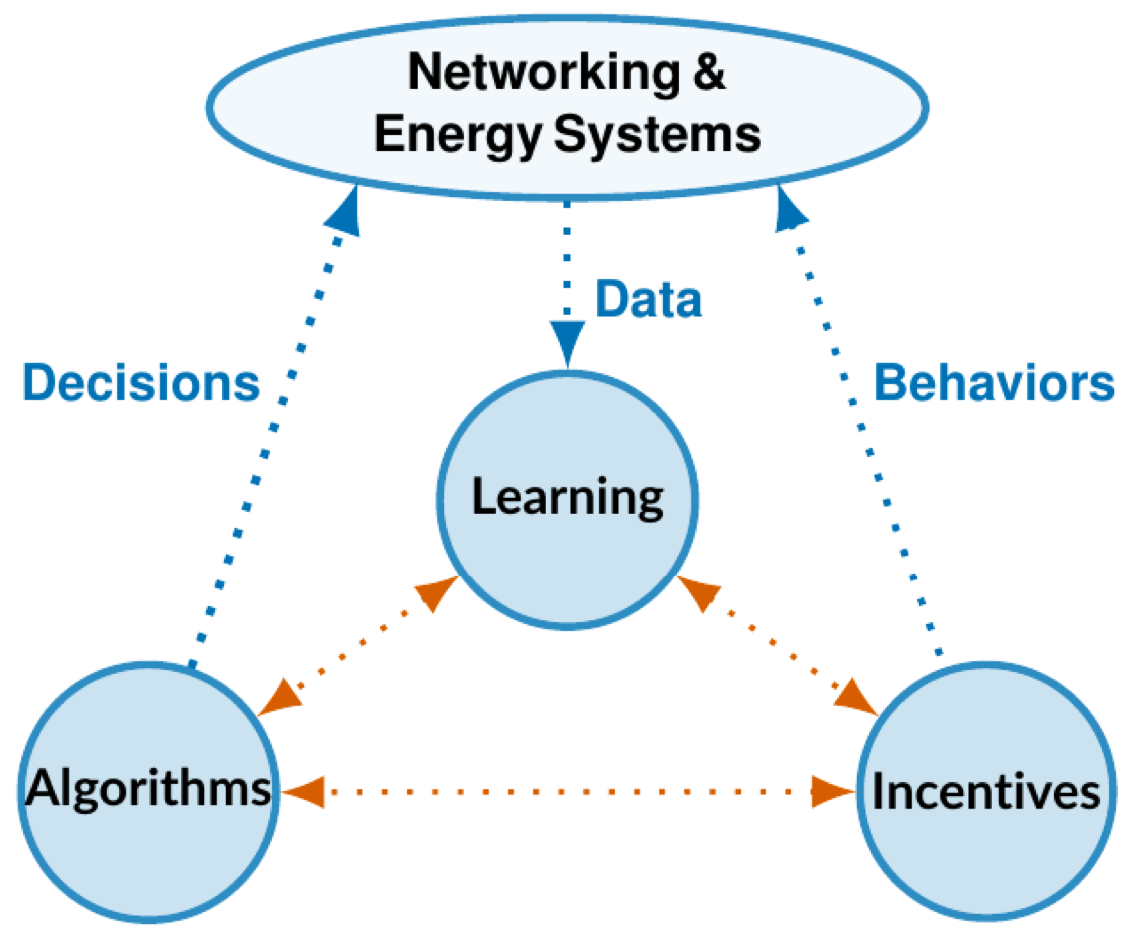
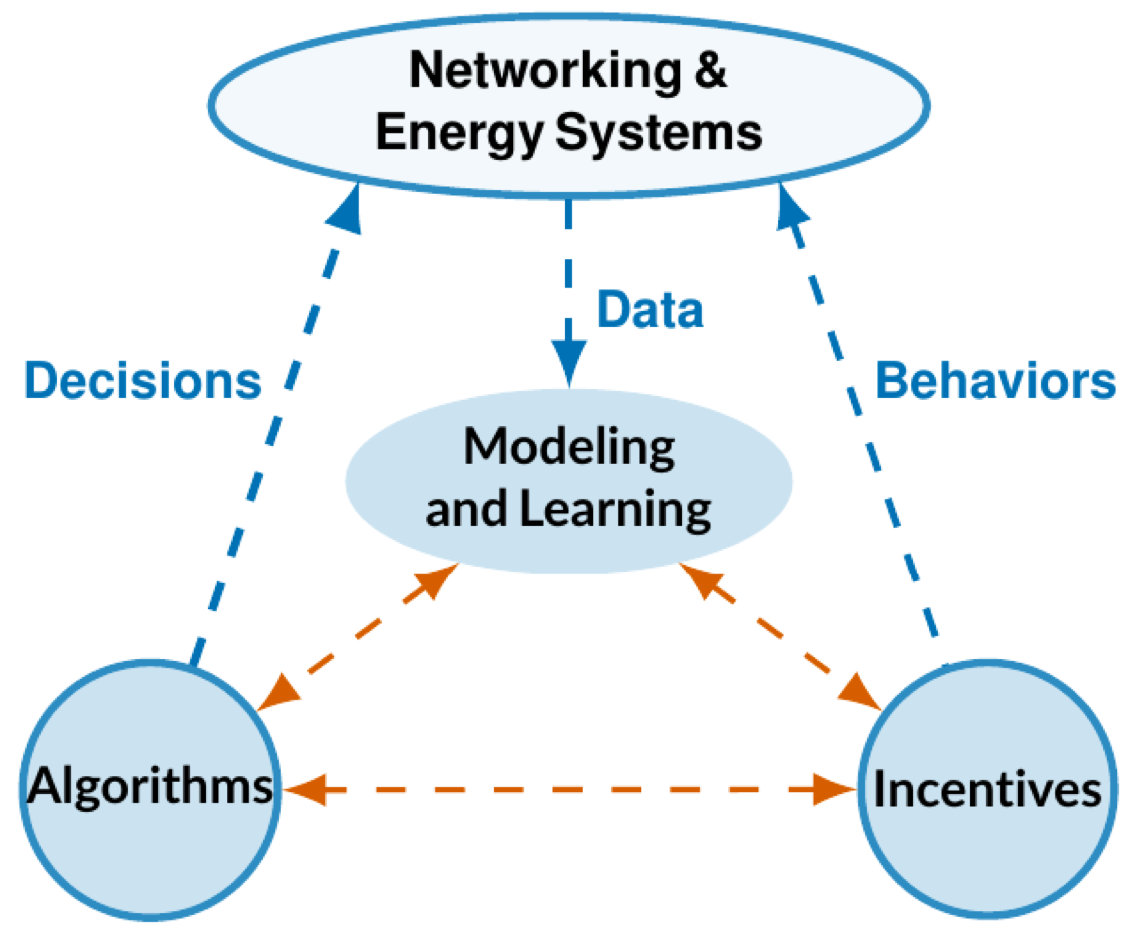
2222

diff --git a/layouts/_default/list.html b/layouts/_default/list.html
@@ -7,6 +7,5 @@
 {{ .Content }}
 
 
-
 {{ partial "footer.html" . }}
 

diff --git a/content/research.md b/content/research.md
@@ -7,9 +7,9 @@ description: This is the abstract
 
 <img src="/img/overview.png" style="max-width:33%; min-width:330px; float: right" alt="overview"/>
 
-Many platform-based services are carried out by sharing resources  among networks of interacting and self-interested agents.  Making decisions in managing these networked systems and platforms faces two separate, but interrelated, challenges. First, in any system, a good decision, whether that be defined as an algorithm for computing resource allocation in the clouds, a strategy for  traffic routing in the Internet, or a policy for electricity distribution in electric power networks, are often computed by solving some explicit or implicit optimization problems with uncertain future information (e.g., piece-by-piece input). Thus, _**making decisions in an online fashion**_ (with or without prediction) is, in many cases, not just an advantage, but a necessity. Second, and often more difficult, the performance of a decision-making process often depends on a collective behavior of agents that may act strategically (and thus, cannot be forced to follow the decisions made by the platform). For this reason,  we must _**design appropriate incentives**_ to encourage agent interactions towards a desired direction, otherwise the decisions cannot be implemented with a guaranteed efficiency and rationality. 
+Many platform-based services are carried out by sharing resources among systems of interacting and self-interested agents.  Making decisions in managing these systems faces two separate, but interrelated, challenges. First, in any system, a good decision, whether that be defined as an algorithm for computing resource allocation in the clouds, a strategy for  traffic routing in the Internet, or a policy for electricity distribution in electric power networks, are often computed by solving some explicit or implicit optimization problems with uncertain future information (e.g., stochastic job arrivals in cloud computing, or fluctuating renewable energy generation in smart grid). Thus, _**designing algorithms to enable efficient decision-making under uncertainty**_ (with or without prediction) is, in many cases, not just an advantage, but a necessity. Second, and often more difficult, the performance of a decision-making process often depends on a collective behavior of agents that may act strategically (and thus, cannot be forced to follow the decisions made by the platform). For this reason,  we must _**design appropriate incentives to encourage agent interactions**_ towards a desired direction, otherwise the decisions cannot be implemented with a guaranteed efficiency and rationality. 
 
-Motivated by these challenges, my research centers around  the interplay between  algorithms,   incentives, and learning in networking and energy systems. To be more specific, my research focuses both on developing analytical techniques in online algorithms, algorithmic game theory, optimization, and machine learning, and applying these techniques in networking and energy domains such as cloud computing, network economics, and smart grid. For more details, please see my research description below by topics. 
+Motivated by these challenges, my research centers around  the interplay between  algorithms and  incentives, with a focus on applications in networking and energy systems. To be more specific, my research focuses both on developing analytical techniques in online algorithms, algorithmic game theory, and machine learning, and applying these techniques in application domains such as cloud computing, network economics, energy-efficient computing and communication, and smart grid. For more details, please see my research description below by topics. 
 
 
 

diff --git a/content/_index.md b/content/_index.md
@@ -2,7 +2,6 @@
 title: Home
 ---
 
-
 [<img src="/img/xiaoqi.png" style="max-width:13%;min-width:110px;float:right" alt="Xiaoqi Tan" />](https://xiaoqitan.org)
 
 ## Xiaoqi Tan's Bio
@@ -14,7 +13,7 @@ Prior to joining UofT, I obtained my Ph.D. degree in electronic and computer eng
 ---
 ## Research Interests
 
-I study the interplay between algorithms, incentives, and learning, with a focus on applications in [**networking and energy systems**](/research/#research_overview). 
+I study the interplay between algorithms and incentives, with a focus on applications in [**networking and energy systems**](/research/#research_overview). 
 
 More specifically, my research focuses both on developing analytical techniques in online algorithms, algorithmic game theory, and machine learning, and applying these techniques in application domains such as cloud computing, network economics, energy-efficient computing and communication, and smart grid. 
 
